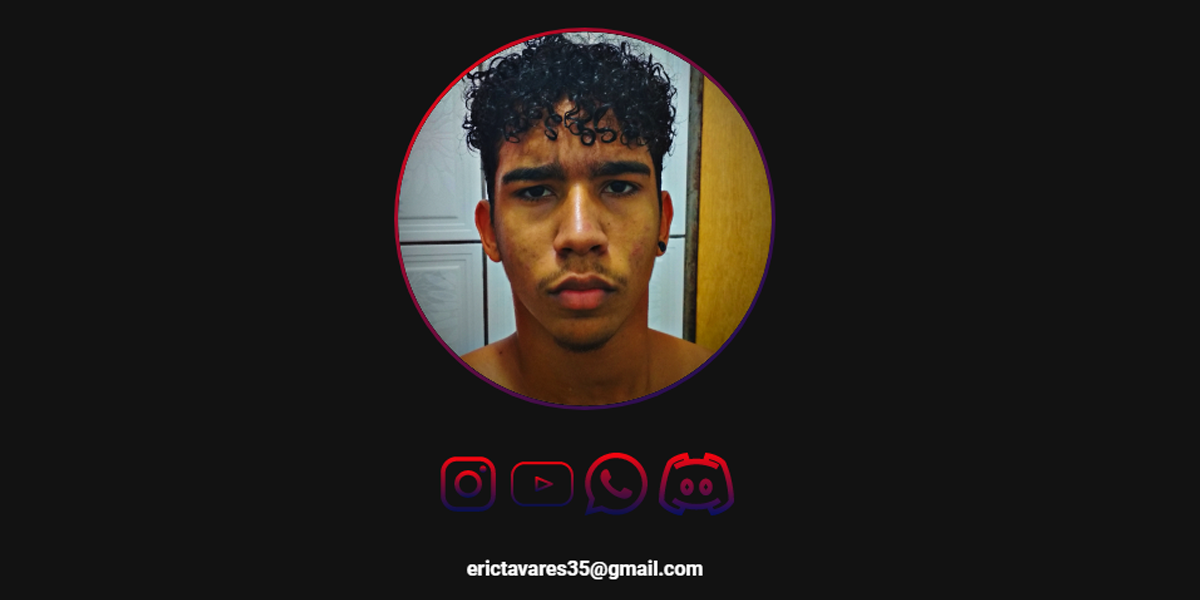
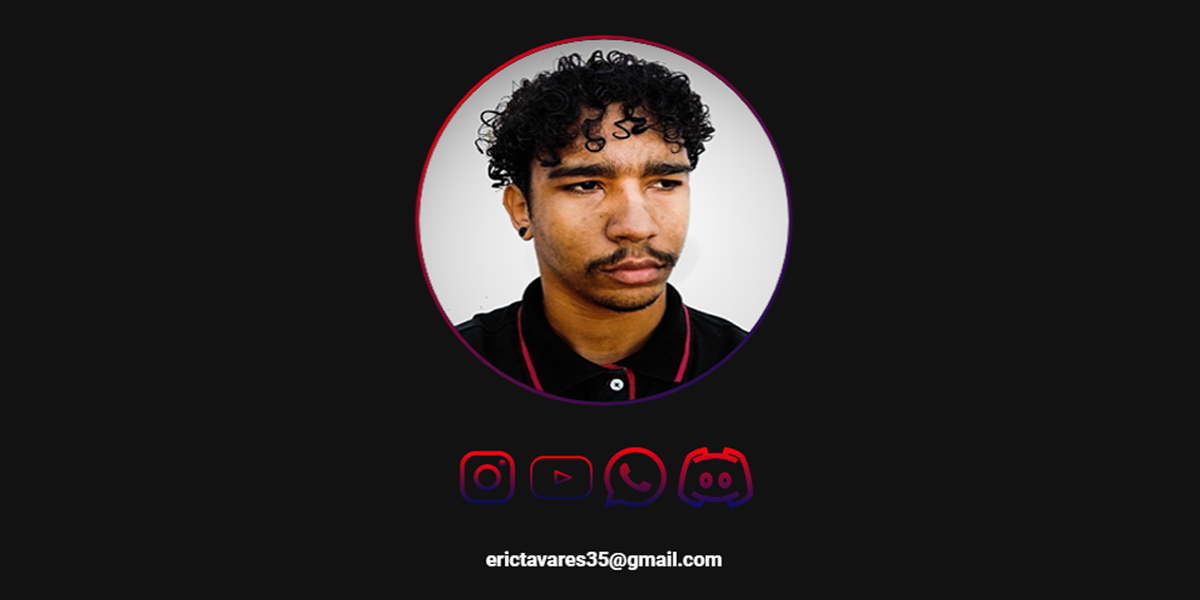
new profile img and img previewr lin

Changed region(s): [[0.3083, 0.03, 0.6783, 0.69], [0.3392, 0.75, 0.6475, 0.87], [0.37, 0.9, 0.6167, 0.99]]

diff --git a/public/index.html b/public/index.html
@@ -35,14 +35,14 @@
     <meta property="og:url" content="https://metatags.io/">
     <meta property="og:title" content="ErykTavares Portfolio">
     <meta property="og:description" content="Web Developer Front-End React">
-    <meta property="og:image" content="https://i.imgur.com/V3R7dAc.png">
+    <meta property="og:image" content="https://i.imgur.com/xlWC0zb.png">
 
     <!-- Twitter -->
     <meta property="twitter:card" content="summary_large_image">
     <meta property="twitter:url" content="https://metatags.io/">
     <meta property="twitter:title" content="ErykTavares Portfolio">
     <meta property="twitter:description" content="Web Developer Front-End React">
-    <meta property="twitter:image" content="https://i.imgur.com/V3R7dAc.png">
+    <meta property="twitter:image" content="https://i.imgur.com/xlWC0zb.png">
 
     <link rel="preconnect" href="https://fonts.googleapis.com">
     <link rel="preconnect" href="https://fonts.gstatic.com" crossorigin>
